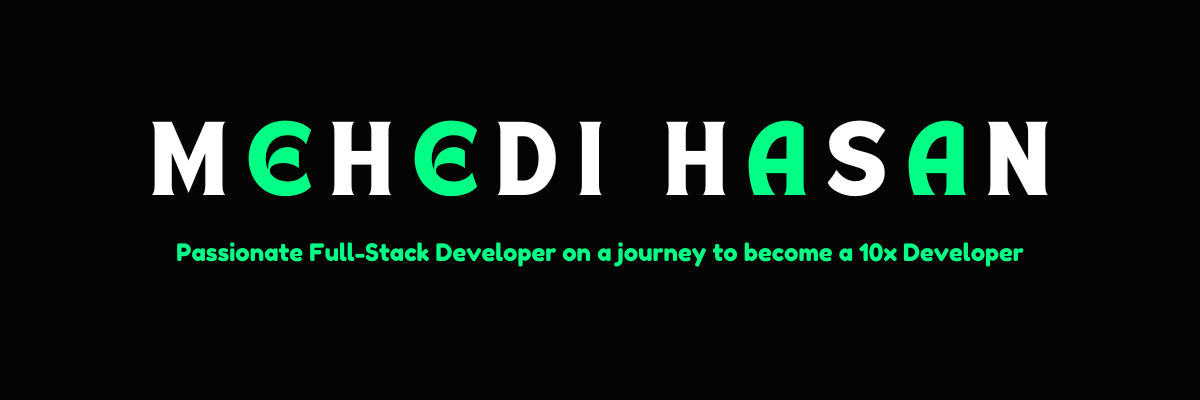
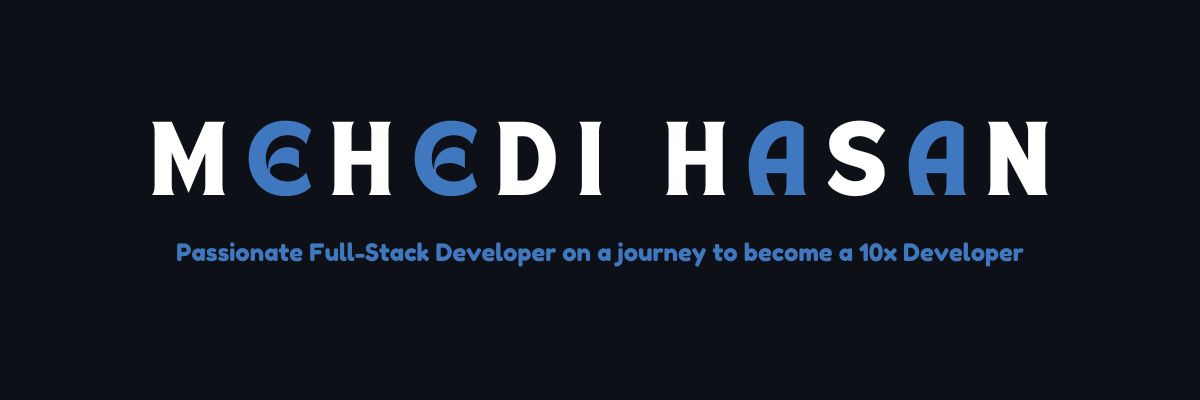
Fix profile cover image

diff --git a/README.md b/README.md
@@ -1,11 +1,12 @@
-![cover-photo](./profile_cover.png)
+![profile_cover](./profile_cover.png)
+
 <div align="center">
 
 <!-- [![Typing SVG](https://readme-typing-svg.herokuapp.com?font=JetBrains+Mono&pause=1000&color=2563EB&center=true&vCenter=true&random=false&width=435&lines=Welcome+to+my+profile!;Nice+to+see+you+here+%F0%9F%91%8B;Feel+free+to+explore+and+connect!)](https://git.io/typing-svg) -->
 
 
 <p align="center">
-  <a href="#"><img width="500px" src="https://readme-typing-svg.herokuapp.com?font=Ubuntu&color=00ff88&size=22&center=true&lines=Welcome+to+my+GitHub+profile+😇;Happy+to+see+you+here+😀;Feel+free+to+look+around+😌;Reach+me+out+if+you+need+me+🤗;Have+a+great+day+😊"></a>
+  <a href="#"><img width="500px" src="https://readme-typing-svg.herokuapp.com?font=Ubuntu&color=4078c0&size=22&center=true&lines=Welcome+to+my+GitHub+profile+😇;Happy+to+see+you+here+😀;Feel+free+to+look+around+😌;Reach+me+out+if+you+need+me+🤗;Have+a+great+day+😊"></a>
 </p>
 
 
@@ -112,7 +113,7 @@
 <!-- ![github-stats](https://stats.dooboo.io/api/github-stats?login=thecodermehedi) -->
 
 
-  <img style="height: 270; width: 100%;" alt="Stats" src="https://github-readme-stats.vercel.app/api?username=thecodermehedi&layout=compact&hide_border=true&theme=transparent&show_icons=true&count_private=true&include_all_commits=true&custom_title=Stats\&rank_icon=github&hide_title=true&icon_color=3B82F6&text_color=00ff88" >
+  <img style="height: 270; width: 100%;" alt="Stats" src="https://github-readme-stats.vercel.app/api?username=thecodermehedi&layout=compact&hide_border=true&theme=github_dark&show_icons=true&count_private=true&include_all_commits=true&custom_title=Stats\&rank_icon=github&hide_title=true" >
 
 <!--  <img style="height: 200; width: 49%;" alt="Languages" src="https://github-readme-stats.vercel.app/api/top-langs/?username=thecodermehedi&layout=compact&langs_count=8&hide_border=true&theme=github_dark&hide_title=true" > -->
 
@@ -123,8 +124,7 @@
 
 ## 🔥 Streak
 
-<img style="height: 270; width: 100%;" alt="Streaks" src="https://github-readme-streak-stats.herokuapp.com?user=thecodermehedi&theme=react&hide_border=true&background=0D1117&stroke=0D1117&fire=00ff88&sideLabels=3B82F6&currStreakNum=00ff88&ring=00ff88&currStreakLabel=3B82F6&sideNums=00ff88" />
-
+<img style="height: 270; width: 100%;" alt="Streaks" src="https://github-readme-streak-stats.herokuapp.com?user=thecodermehedi&theme=github-dark-blue&hide_border=true&stroke=0D1117" />
 
 <!-- <details>
 <summary> <h2>🔥 Streak</h2> </summary>
